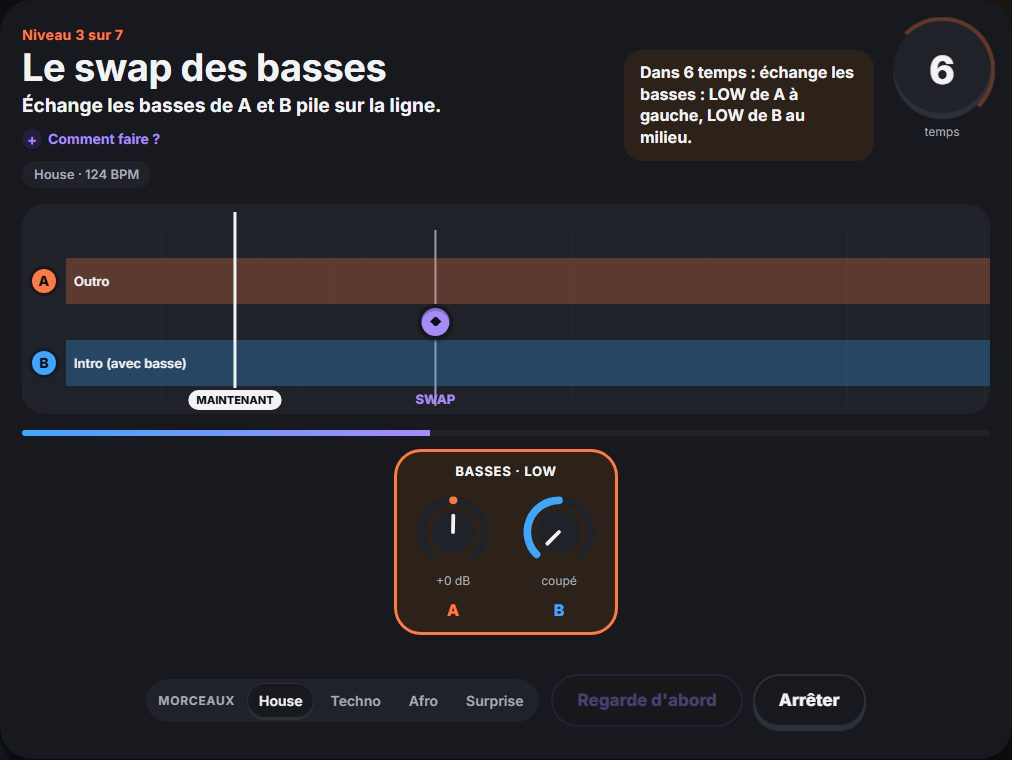
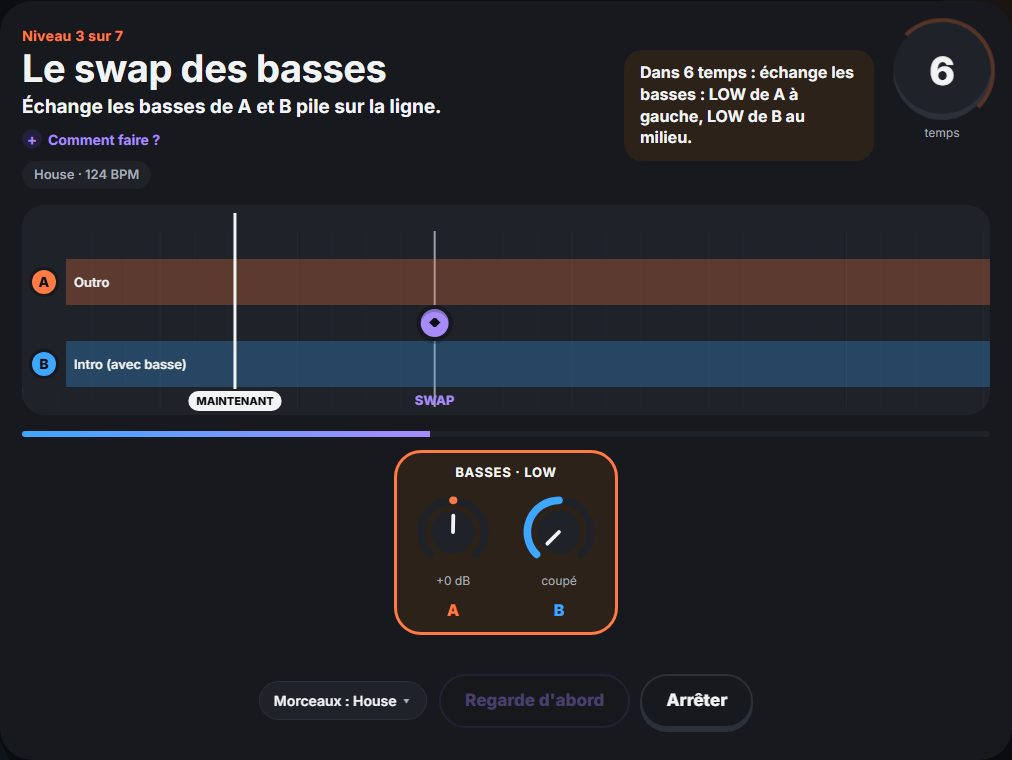
Passer au vrai, une étape à la fois
- 3 paires proposées, puis la liste se replie sur la paire choisie (« Changer de paire »)
- Une seule mission affichée, avec « C'est fait » et des pastilles pour voir où tu en es
- « Voir toutes les missions » pour revoir les autres, « Choisir une autre paire » à la fin

diff --git a/js/rekordbox.js b/js/rekordbox.js
@@ -4,7 +4,7 @@
 /* ---------- Passer au vrai : collection rekordbox, paires recommandées, missions ----------
    Un morceau = [titre, artiste, genre, bpm, tonalité Camelot]. Seules ces infos sont lues dans le XML,
    et elles restent dans le navigateur. Une paire = [score, i, j] (indices dans rbLib, i = le plus lent). */
-const RB_KEY = 'coach-collection', RB_MIS = 'coach-missions', RB_MAX = 6000, RB_PER = 6, RB_PC = { C: 0, D: 2, E: 4, F: 5, G: 7, A: 9, B: 11 };
+const RB_KEY = 'coach-collection', RB_MIS = 'coach-missions', RB_MAX = 6000, RB_PER = 3, RB_PC = { C: 0, D: 2, E: 4, F: 5, G: 7, A: 9, B: 11 };
 function rbKey(s){
   if (!s) return '';
   s = String(s).trim().replace('♯', '#').replace('♭', 'b');
@@ -75,25 +75,41 @@ function rbMissionList(a, b){
   ];
 }
 function rbSet(list, name){
-  rbLib = list.slice(0, RB_MAX); rbName = name || ''; rbSel = null; rbMis.pair = ''; rbMis.done = {}; rbSaveMis(); rbAll = null; rbStale = true; rbPage = 0; $('rbFind').value = ''; $('rbMsg').textContent = '';
+  rbLib = list.slice(0, RB_MAX); rbName = name || ''; rbSel = null; rbChoosing = false; rbShowAll = false; rbMis.pair = ''; rbMis.done = {}; rbSaveMis(); rbAll = null; rbStale = true; rbPage = 0; $('rbFind').value = ''; $('rbMsg').textContent = '';
   try { if (rbLib.length) localStorage.setItem(RB_KEY, JSON.stringify({ n: rbName, t: rbLib })); else localStorage.removeItem(RB_KEY); }
   catch (e) { $('rbMsg').textContent = 'Ta collection est trop grande pour être gardée en mémoire : il faudra la réimporter à ta prochaine visite.'; }
   renderReal();
 }
+// Une étape à la fois : la liste des paires se replie une fois la paire choisie (rbChoosing la rouvre),
+// et une seule mission est affichée, sauf si on demande à les voir toutes (rbShowAll)
+let rbChoosing = false, rbShowAll = false;
+function rbChoose(){ rbChoosing = true; rbShowAll = false; renderReal(); $('rbPairTitle').scrollIntoView({ behavior: REDUCED ? 'auto' : 'smooth', block: 'start' }); }
+function rbCheck(id, on, list){
+  if (on) rbMis.done[id] = 1; else delete rbMis.done[id];
+  if (list.every(m => rbMis.done[m[0]]) && !rbMis.done.ok){ rbMis.done.ok = 1; rbMis.total++; confetti(120); badgeSync(); }
+  rbSaveMis(); renderMissions();
+}
 function renderMissions(){
-  const box = $('rbMisBox'); box.hidden = !rbSel; if (!rbSel) return;
+  const box = $('rbMisBox'); box.hidden = !rbSel || rbChoosing; if (box.hidden) return;
   const a = rbLib[rbSel[0]], b = rbLib[rbSel[1]], list = rbMissionList(a, b), ol = $('rbMissions'); ol.innerHTML = '';
-  $('rbMisSub').textContent = `Avec « ${a[0]} » puis « ${b[0]} ». Fais chaque mission sur ta table, et coche-la quand c'est propre. Les quatre dernières reprennent les niveaux 1 à 4 des leçons.`;
-  for (const [id, title, text] of list){ const liEl = document.createElement('li'), lab = document.createElement('label'), cb = document.createElement('input'), d = document.createElement('div'), st = document.createElement('strong'), sp = document.createElement('span');
-    cb.type = 'checkbox'; cb.checked = !!rbMis.done[id]; liEl.classList.toggle('done', cb.checked); st.textContent = title; sp.textContent = text; d.append(st, sp); lab.append(cb, d); liEl.appendChild(lab); ol.appendChild(liEl);
-    cb.addEventListener('change', () => { if (cb.checked) rbMis.done[id] = 1; else delete rbMis.done[id];
-      const all = list.every(m => rbMis.done[m[0]]); if (all && !rbMis.done.ok){ rbMis.done.ok = 1; rbMis.total++; confetti(120); badgeSync(); }
-      rbSaveMis(); renderMissions(); }); }
-  const dn = $('rbDone'); dn.hidden = !rbMis.done.ok; dn.textContent = `Paire validée ! Tu as réussi ${plur(rbMis.total, 'vraie transition', 'vraies transitions')} avec ta musique. Choisis une autre paire pour continuer.` + (rbMis.total === 1 ? ' Nouveau badge : Pour de vrai.' : '');
+  const cur = list.findIndex(m => !rbMis.done[m[0]]), fini = cur < 0;
+  $('rbMisSub').textContent = fini ? `Les ${list.length} missions sont faites avec « ${a[0]} » puis « ${b[0]} ».` : `Mission ${cur + 1} sur ${list.length}. Fais-la sur ta table avec « ${a[0]} » puis « ${b[0]} », et appuie sur « C'est fait » quand c'est propre.`;
+  const dots = $('rbDots'); dots.innerHTML = '';
+  list.forEach((m, i) => { const d = document.createElement('span'); d.className = rbMis.done[m[0]] ? 'done' : i === cur ? 'now' : ''; dots.appendChild(d); });
+  list.forEach(([id, title, text], i) => { const liEl = document.createElement('li'), lab = document.createElement('label'), cb = document.createElement('input'), d = document.createElement('div'), st = document.createElement('strong'), sp = document.createElement('span');
+    cb.type = 'checkbox'; cb.checked = !!rbMis.done[id]; liEl.classList.toggle('done', cb.checked); liEl.classList.toggle('now', i === cur); liEl.hidden = !rbShowAll && i !== cur;
+    st.textContent = title; sp.textContent = text; d.append(st, sp); lab.append(cb, d); liEl.appendChild(lab);
+    if (i === cur){ const ok = document.createElement('button'); ok.type = 'button'; ok.className = 'cta rbok'; ok.textContent = 'C\u2019est fait'; ok.addEventListener('click', () => rbCheck(id, true, list)); liEl.appendChild(ok); }
+    cb.addEventListener('change', () => rbCheck(id, cb.checked, list)); ol.appendChild(liEl); });
+  const dn = $('rbDone'); dn.hidden = !rbMis.done.ok; dn.textContent = `Paire validée ! Tu as réussi ${plur(rbMis.total, 'vraie transition', 'vraies transitions')} avec ta musique.` + (rbMis.total === 1 ? ' Nouveau badge : Pour de vrai.' : '');
+  $('rbAgain').hidden = !rbMis.done.ok;
+  $('rbMisAll').textContent = rbShowAll ? (fini ? 'Masquer les missions' : 'Ne voir que la mission en cours') : fini ? 'Revoir les missions' : 'Voir toutes les missions';
 }
 function renderReal(){
   const has = rbLib.length > 0; $('rbEmpty').hidden = has; $('rbFull').hidden = !has; if (!has) return;
-  const usable = rbLib.filter(t => t[3] && t[4]).length;
+  const usable = rbLib.filter(t => t[3] && t[4]).length, pick = !rbSel || rbChoosing;
+  $('rbPairPick').hidden = !pick; $('rbPairSum').hidden = pick; $('rbPairTitle').textContent = pick ? '2. Choisis une paire de morceaux' : '2. Ta paire';
+  if (rbSel){ const a = rbLib[rbSel[0]], b = rbLib[rbSel[1]]; $('rbPairTxt').textContent = `« ${a[0]} » → « ${b[0]} » · ${rbWhy(a, b)}`; }
   $('rbSum').textContent = plur(rbLib.length, 'morceau', 'morceaux') + (rbName ? ' · ' + rbName : '') + (usable < rbLib.length ? ` · ${usable} avec tempo et tonalité` : '');
   if (rbStale){ const f = $('rbFind').value.trim(); if (f) rbPairs = rbBuild(f); else rbPairs = rbAll = rbAll || rbBuild(''); rbStale = false; rbPage = 0; }
   const pages = Math.max(1, Math.ceil(rbPairs.length / RB_PER)); if (rbPage >= pages) rbPage = 0;
@@ -105,7 +121,7 @@ function renderReal(){
     for (const t of [a, b]){ const pt = document.createElement('span'), nm = document.createElement('b'), ar = document.createElement('span'); pt.className = 'pt'; nm.textContent = t[0]; ar.textContent = t[1] || 'Artiste inconnu'; pt.append(nm, ar);
       if (t === b){ const arrow = document.createElement('span'); arrow.className = 'ar'; arrow.textContent = '→'; arrow.setAttribute('aria-hidden', 'true'); btn.appendChild(arrow); } btn.appendChild(pt); }
     const why = document.createElement('span'); why.className = 'why'; if (c[0] >= 85){ const easy = document.createElement('b'); easy.textContent = 'Facile'; why.appendChild(easy); } why.appendChild(document.createTextNode(rbWhy(a, b))); btn.appendChild(why);
-    btn.addEventListener('click', () => { const k = c[1] + '|' + c[2]; if (rbMis.pair !== k){ rbMis.pair = k; rbMis.done = {}; rbSaveMis(); } rbSel = [c[1], c[2]]; renderReal(); $('rbMisBox').scrollIntoView({ behavior: REDUCED ? 'auto' : 'smooth', block: 'start' }); });
+    btn.addEventListener('click', () => { const k = c[1] + '|' + c[2]; if (rbMis.pair !== k){ rbMis.pair = k; rbMis.done = {}; rbSaveMis(); } rbSel = [c[1], c[2]]; rbChoosing = false; rbShowAll = false; renderReal(); $('rbMisBox').scrollIntoView({ behavior: REDUCED ? 'auto' : 'smooth', block: 'start' }); });
     box.appendChild(btn); }
   if (!shown.length){ const p = document.createElement('p'); p.className = 'subnote'; p.textContent = $('rbFind').value.trim() ? 'Aucune paire trouvée pour cette recherche.' : 'Aucune paire trouvée. Vérifie que rekordbox a bien analysé tes morceaux (tempo et tonalité), puis réexporte ta collection.'; box.appendChild(p); }
   $('rbMore').hidden = pages < 2;
@@ -116,6 +132,9 @@ $('rbChange').addEventListener('click', () => $('rbFile').click());
 $('rbDemo').addEventListener('click', () => rbSet(RB_DEMO.map(rbClean), 'collection d\'exemple'));
 $('rbClear').addEventListener('click', () => rbSet([], ''));
 $('rbMore').addEventListener('click', () => { rbPage++; renderReal(); });
+$('rbPairChange').addEventListener('click', rbChoose);
+$('rbAgain').addEventListener('click', rbChoose);
+$('rbMisAll').addEventListener('click', () => { rbShowAll = !rbShowAll; renderMissions(); });
 $('rbFind').addEventListener('input', () => { rbStale = true; renderReal(); });
 $('rbFile').addEventListener('change', async e => {
   const f = e.target.files[0]; e.target.value = ''; if (!f) return; $('rbMsg').textContent = '';

diff --git a/tests/vrai.spec.js b/tests/vrai.spec.js
@@ -1,0 +1,62 @@
+// Lot 12 : Passer au vrai, une étape à la fois.
+const { test, expect } = require('@playwright/test');
+const { ouvrir, sansBandeau } = require('./outils');
+
+const visibles = page => page.locator('#rbMissions li:visible');
+async function paire(page) {
+  await page.locator('#rbDemo').click();
+  await page.locator('#rbPairs .duo').first().click();
+}
+
+test.describe('Passer au vrai, une étape à la fois', () => {
+  test('3 paires, puis la liste se replie sur la paire choisie', async ({ page }) => {
+    const erreurs = await ouvrir(page, { onglet: 'vrai' });
+    await page.locator('#rbDemo').click();
+    await expect(page.locator('#rbPairs .duo')).toHaveCount(3);
+    await expect(page.locator('#rbMore')).toBeVisible();
+    await expect(page.locator('#rbMisBox')).toBeHidden();
+    await page.locator('#rbPairs .duo').first().click();
+    await expect(page.locator('#rbPairPick')).toBeHidden();
+    await expect(page.locator('#rbPairTitle')).toHaveText('2. Ta paire');
+    await expect(page.locator('#rbPairTxt')).toHaveText(/^« Sable chaud » → « Tambours » · 120 et 121 BPM/);
+    await page.locator('#rbPairChange').click();
+    await expect(page.locator('#rbPairPick')).toBeVisible();
+    await expect(page.locator('#rbMisBox')).toBeHidden();
+    expect(erreurs).toEqual([]); await sansBandeau(page);
+  });
+  test('une mission à la fois, avec des pastilles', async ({ page }) => {
+    await ouvrir(page, { onglet: 'vrai' });
+    await paire(page);
+    await expect(visibles(page)).toHaveCount(1);
+    await expect(page.locator('#rbDots span')).toHaveCount(6);
+    await expect(page.locator('#rbMisSub')).toHaveText(/^Mission 1 sur 6\./);
+    await expect(visibles(page).locator('strong')).toHaveText('Prépare tes deux morceaux');
+    await page.locator('#rbMissions .rbok').click();
+    await expect(page.locator('#rbMisSub')).toHaveText(/^Mission 2 sur 6\./);
+    await expect(page.locator('#rbDots span.done')).toHaveCount(1);
+    await expect(visibles(page).locator('strong')).toHaveText('Repère la fin du premier morceau');
+  });
+  test('« Voir toutes les missions » montre les 6, et on peut décocher', async ({ page }) => {
+    await ouvrir(page, { onglet: 'vrai' });
+    await paire(page);
+    await page.locator('#rbMissions .rbok').click();
+    await page.locator('#rbMisAll').click();
+    await expect(visibles(page)).toHaveCount(6);
+    await expect(page.locator('#rbMisAll')).toHaveText('Ne voir que la mission en cours');
+    await page.locator('#rbMissions input').first().uncheck();
+    await expect(page.locator('#rbMisSub')).toHaveText(/^Mission 1 sur 6\./);
+  });
+  test('paire validée : bouton pour en choisir une autre ; la progression survit au rechargement', async ({ page }) => {
+    await ouvrir(page, { onglet: 'vrai' });
+    await paire(page);
+    for (let i = 0; i < 2; i++) await page.locator('#rbMissions .rbok').click();
+    await page.reload();
+    await expect(page.locator('#rbMisSub')).toHaveText(/^Mission 3 sur 6\./);
+    for (let i = 0; i < 4; i++) await page.locator('#rbMissions .rbok').click();
+    await expect(page.locator('#rbDone')).toContainText('Paire validée');
+    await expect(visibles(page)).toHaveCount(0);
+    await expect(page.locator('#rbMisAll')).toHaveText('Revoir les missions');
+    await page.locator('#rbAgain').click();
+    await expect(page.locator('#rbPairPick')).toBeVisible();
+  });
+});

diff --git a/index.html b/index.html
@@ -146,16 +146,21 @@
       </div>
       <div id="rbFull" hidden>
         <div class="rbhead"><p class="rbsum" id="rbSum"></p><div class="rbrow"><button type="button" class="ghost" id="rbChange">Changer de fichier</button><button type="button" class="ghost" id="rbClear">Retirer la collection</button></div></div>
-        <h2 class="sub">2. Choisis une paire de morceaux</h2>
-        <p class="subnote">Ces morceaux de ta collection s'enchaînent bien : tempos proches, tonalités qui vont ensemble.</p>
-        <input type="search" class="rbfind" id="rbFind" placeholder="Chercher un morceau ou un artiste" aria-label="Chercher un morceau ou un artiste">
-        <div class="duos" id="rbPairs"></div>
-        <button type="button" class="ghost" id="rbMore">Voir d'autres paires</button>
+        <h2 class="sub" id="rbPairTitle">2. Choisis une paire de morceaux</h2>
+        <div id="rbPairPick">
+          <p class="subnote">Ces morceaux de ta collection s'enchaînent bien : tempos proches, tonalités qui vont ensemble.</p>
+          <input type="search" class="rbfind" id="rbFind" placeholder="Chercher un morceau ou un artiste" aria-label="Chercher un morceau ou un artiste">
+          <div class="duos" id="rbPairs"></div>
+          <button type="button" class="ghost" id="rbMore">Voir d'autres paires</button>
+        </div>
+        <div class="rbhead" id="rbPairSum" hidden><p class="rbsum" id="rbPairTxt"></p><div class="rbrow"><button type="button" class="ghost" id="rbPairChange">Changer de paire</button></div></div>
         <div id="rbMisBox" hidden>
           <h2 class="sub">3. Tes missions dans rekordbox</h2>
           <p class="subnote" id="rbMisSub"></p>
+          <div class="rbdots" id="rbDots" aria-hidden="true"></div>
           <ol class="missions" id="rbMissions"></ol>
           <p class="rbdone" id="rbDone" hidden></p>
+          <div class="rbrow rbmis-row"><button type="button" class="cta" id="rbAgain" hidden>Choisir une autre paire</button><button type="button" class="ghost" id="rbMisAll">Voir toutes les missions</button></div>
         </div>
       </div>
       <p class="rbmsg" id="rbMsg" role="status"></p>

diff --git a/styles.css b/styles.css
@@ -663,6 +663,18 @@ details.cmp summary{cursor:pointer;font-weight:700;color:var(--xp);font-size:14p
 details.cmp[open] summary{margin-bottom:8px}
 .clair{font-size:14px;color:var(--muted)}
 .clair button{padding:4px 10px;min-width:0;font-size:13px}
+/* Lot 12 : Passer au vrai, une étape à la fois */
+#rbPairSum{margin-bottom:6px}
+.rbdots{display:flex;gap:8px;margin:0 0 14px}
+.rbdots span{width:14px;height:14px;border-radius:50%;background:var(--track)}
+.rbdots span.done{background:var(--go)}
+.rbdots span.now{background:var(--a);box-shadow:0 0 0 3px color-mix(in srgb,var(--a) 35%,transparent)}
+.missions li.now{display:flex;flex-direction:column;gap:12px;align-items:flex-start;background:var(--panel-2);border-radius:22px;padding:6px 6px 16px}
+.missions li.now label{background:none;padding:12px 14px 0}
+.missions li.now strong{font-size:20px}
+.missions li.now span{font-size:16px;color:var(--fg)}
+.rbok{margin-left:52px;font-size:16px;padding:10px 24px}
+.rbmis-row{margin-top:14px}
 .page-note{margin:20px 0 0;font-size:15px;color:var(--muted)}
 .page-note a{color:var(--xp);font-weight:700}
 @media (max-width:760px){.hero,.page{padding:24px;border-radius:26px}.steps{grid-template-columns:1fr}}

diff --git a/tests/site.spec.js b/tests/site.spec.js
@@ -195,10 +195,10 @@ test.describe('Passer au vrai', () => {
     const erreurs = await ouvrir(page, { onglet: 'vrai' });
     await page.locator('#rbDemo').click();
     await expect(page.locator('#rbSum')).toContainText('12 morceaux');
-    await expect(page.locator('#rbPairs .duo')).toHaveCount(5);
+    await expect(page.locator('#rbPairs .duo')).toHaveCount(3);
     await page.locator('#rbPairs .duo').first().click();
     await expect(page.locator('#rbMissions li')).toHaveCount(6);
-    for (let i = 0; i < 6; i++) await page.locator('#rbMissions input').nth(i).check();
+    for (let i = 0; i < 6; i++) await page.locator('#rbMissions .rbok').click();
     await expect(page.locator('#rbDone')).toContainText('Paire validée');
     expect(erreurs).toEqual([]);
   });

diff --git a/presentation.html b/presentation.html
@@ -49,7 +49,7 @@
     <div class="pres-step">
       <div class="pres-txt"><span class="pres-n">3</span><h3>Passer au vrai</h3>
         <p>Importe ta collection rekordbox : le site te propose des paires de tes morceaux qui s'enchaînent bien, puis des missions à faire dans rekordbox, avec ta musique.</p></div>
-      <img src="img/vrai.jpg" width="940" height="640" alt="Des paires de morceaux recommandées, avec leur tempo et leur tonalité" loading="lazy">
+      <img src="img/vrai.jpg" width="940" height="553" alt="Une paire de morceaux de la collection, et la mission en cours à faire dans rekordbox" loading="lazy">
     </div>
   </section>
 

diff --git a/tests/quiz.spec.js b/tests/quiz.spec.js
@@ -187,7 +187,7 @@ test.describe('Badge « Pour de vrai »', () => {
     await ouvrir(page, { onglet: 'vrai' });
     await page.locator('#rbDemo').click();
     await page.locator('#rbPairs .duo').first().click();
-    for (let i = 0; i < 6; i++) await page.locator('#rbMissions input').nth(i).check();
+    for (let i = 0; i < 6; i++) await page.locator('#rbMissions .rbok').click();
     await expect(page.locator('#rbDone')).toContainText('Nouveau badge : Pour de vrai.');
     expect(await stocke(page, 'coach-badges')).toEqual(['vrai']);
   });

diff --git a/CLAUDE.md b/CLAUDE.md
@@ -156,6 +156,12 @@ Hors du plan : refaire un logiciel de mix complet. rekordbox sert à mixer pour 
   dans `<details id="cmpBox">` (redessiné à l'ouverture, `cmpLast`), « C'était clair ? » en bas.
   149 tests verts.
 - **Lot 11 publié le 14 oct. 2026** (accord de l'utilisateur, avant la checklist FLX4).
+- **Lot 12 (14 oct. 2026)** : branche `lot-12-vrai`, non publiée. « Passer au vrai », une étape à la fois
+  (`js/rekordbox.js`) : 3 paires par page (`RB_PER`), la liste se replie sur la paire choisie (`#rbPairSum`,
+  « Changer de paire », `rbChoosing`), une seule mission affichée avec « C'est fait » (`.rbok`, `rbCheck`)
+  et 6 pastilles (`#rbDots`), « Voir toutes les missions » (`rbShowAll`), « Choisir une autre paire »
+  (`#rbAgain`) quand la paire est validée. Calcul des paires et textes des missions inchangés. Image
+  `img/vrai.jpg` refaite. 153 tests verts.
 - Plan en 5 étapes : 1. Restructurer (3 onglets, supprimer le mode libre, page d'accueil) ·
   2. Remplir S'entraîner · 3. Remplir Passer au vrai · 4. Tester avec 3 à 5 débutants · 5. Lancer.
 - **1. Restructurer : fait le 12 oct. 2026.** Accueil + 3 onglets dans `index.html`, lien « Mode libre »
@@ -273,7 +279,7 @@ npx playwright test tests/midi.spec.js   # seulement la liaison avec la table
   `navigator.requestMIDIAccess` avant le chargement ; le site y branche lui-même `onMidi`, donc les
   messages simulés suivent le même chemin que ceux de la vraie FLX4.
 - `tests/midi.spec.js` : détection, faders, LOW, MID, PLAY, apprentissage, rebranchement, messages
-  inattendus, `coach-midi-map` abîmée. `tests/quiz.spec.js` : contenu du quiz, badges, quiz éclair, question bonus. `tests/objectif.spec.js` : objectif du jour, série. `tests/presentation.spec.js` : page de présentation. `tests/rangement.spec.js` : chapitres et style repliés, « Mes progrès », schéma replié. `tests/clarte.spec.js` : lexique, échecs en écart, piste visible, badges de l'accueil. `tests/avis.spec.js` : « Mon avis »,
+  inattendus, `coach-midi-map` abîmée. `tests/quiz.spec.js` : contenu du quiz, badges, quiz éclair, question bonus. `tests/objectif.spec.js` : objectif du jour, série. `tests/presentation.spec.js` : page de présentation. `tests/rangement.spec.js` : chapitres et style repliés, « Mes progrès », schéma replié. `tests/vrai.spec.js` : Passer au vrai étape par étape. `tests/clarte.spec.js` : lexique, échecs en écart, piste visible, badges de l'accueil. `tests/avis.spec.js` : « Mon avis »,
   « C'était clair ? », rapport, remise à zéro, fiche des testeurs.
   `tests/parcours.spec.js` : choix du parcours, prochaine étape à
   chaque stade, changement de parcours, test de placement raté. `tests/site.spec.js` : chargement, Workers, parties, progression,
